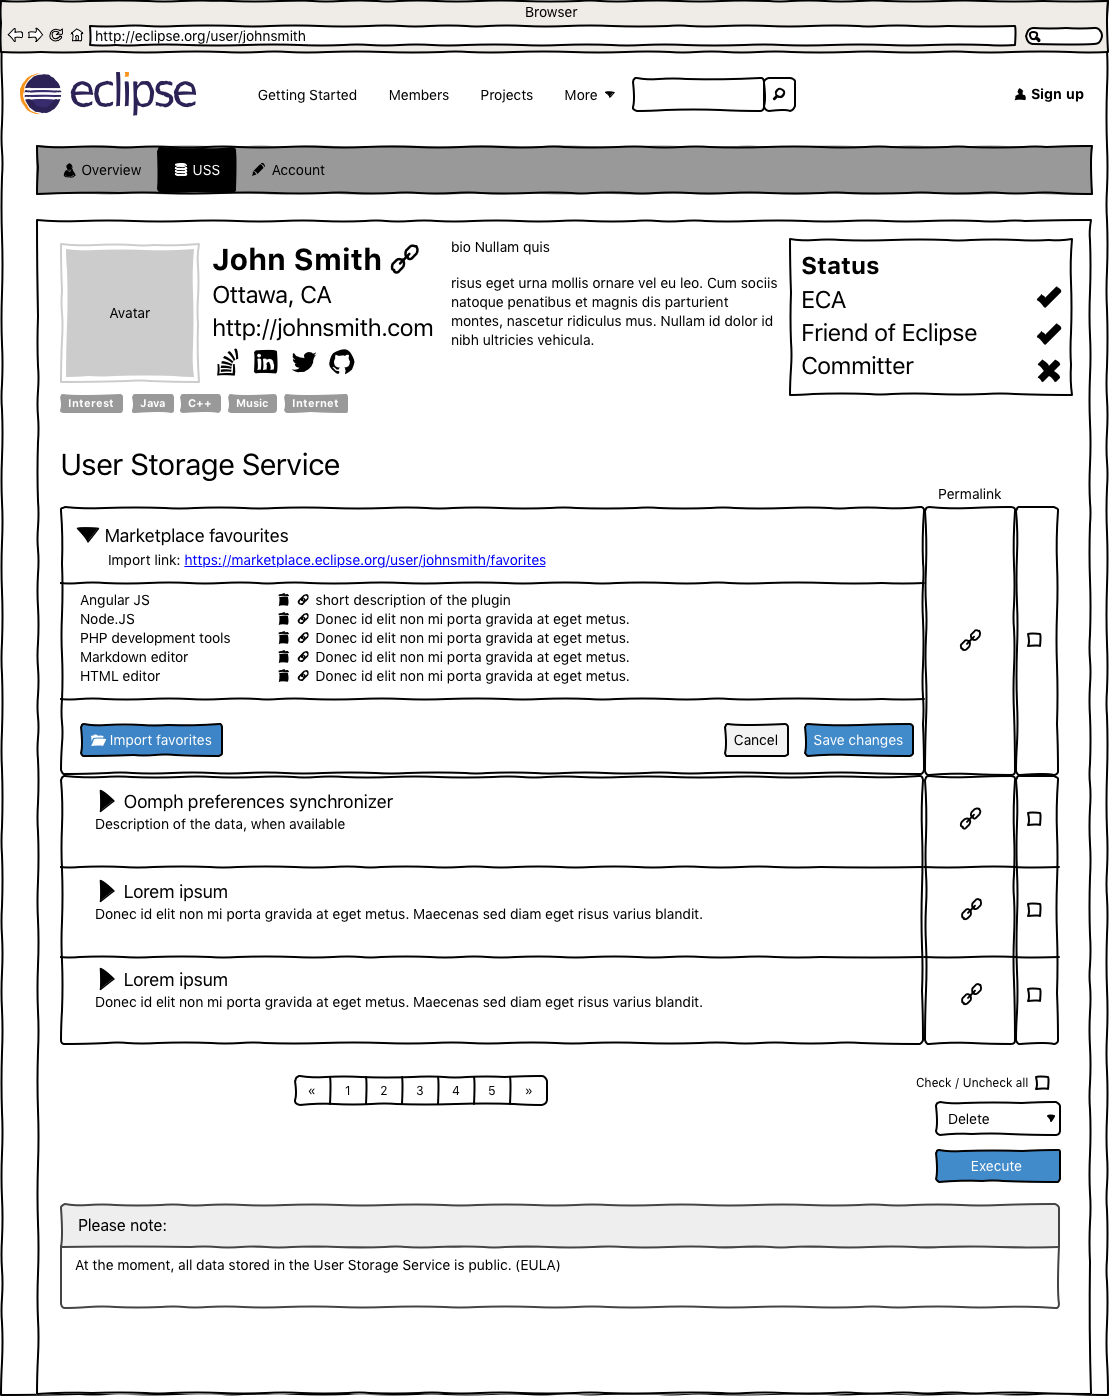
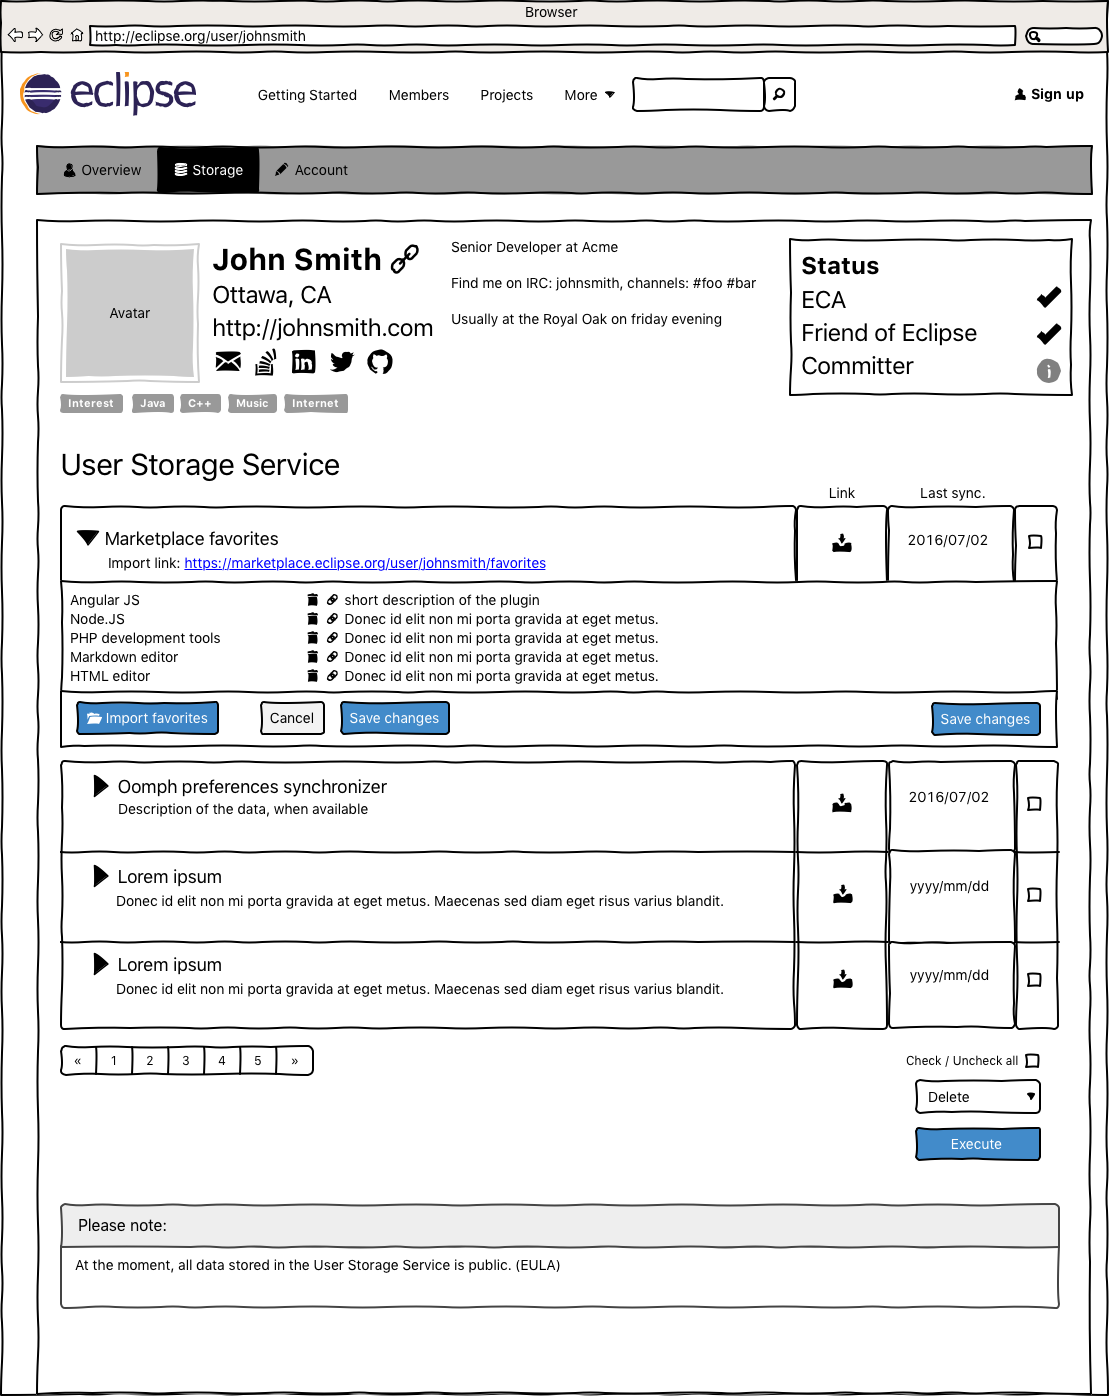
New version for the Storage page
Renaming USS -> Storage
Updating the presentation of the content (work in progress, miss a way to revoke application token)
A few other improvements on other pages.

diff --git a/user-profile_files/resources/story.js b/user-profile_files/resources/story.js
@@ -50,9 +50,9 @@ var story = {
     },
     {
      "rect": [
-      236,
+      259,
       147,
-      341,
+      364,
       193
      ],
      "page": 2
@@ -87,7 +87,7 @@ var story = {
      "rect": [
       157,
       147,
-      236,
+      259,
       193
      ],
      "page": 1
@@ -105,19 +105,19 @@ var story = {
      "rect": [
       277,
       217,
-      355,
-      258
-     ],
-     "page": 4
-    },
-    {
-     "rect": [
-      355,
-      217,
-      488,
+      414,
       258
      ],
      "page": 5
+    },
+    {
+     "rect": [
+      414,
+      217,
+      492,
+      258
+     ],
+     "page": 4
     },
     {
      "rect": [
@@ -149,7 +149,7 @@ var story = {
      "rect": [
       157,
       147,
-      236,
+      259,
       193
      ],
      "page": 1
@@ -167,19 +167,19 @@ var story = {
      "rect": [
       277,
       217,
-      355,
+      410,
       258
      ],
-     "page": 4
+     "page": 5
     },
     {
      "rect": [
-      355,
+      410,
       217,
       488,
       258
      ],
-     "page": 5
+     "page": 4
     },
     {
      "rect": [
@@ -211,7 +211,7 @@ var story = {
      "rect": [
       157,
       147,
-      236,
+      259,
       193
      ],
      "page": 1
@@ -236,9 +236,9 @@ var story = {
     },
     {
      "rect": [
-      355,
+      277,
       217,
-      488,
+      410,
       258
      ],
      "page": 5
@@ -273,7 +273,7 @@ var story = {
      "rect": [
       157,
       147,
-      236,
+      259,
       193
      ],
      "page": 1
@@ -298,9 +298,9 @@ var story = {
     },
     {
      "rect": [
-      277,
+      410,
       217,
-      355,
+      488,
       258
      ],
      "page": 4
